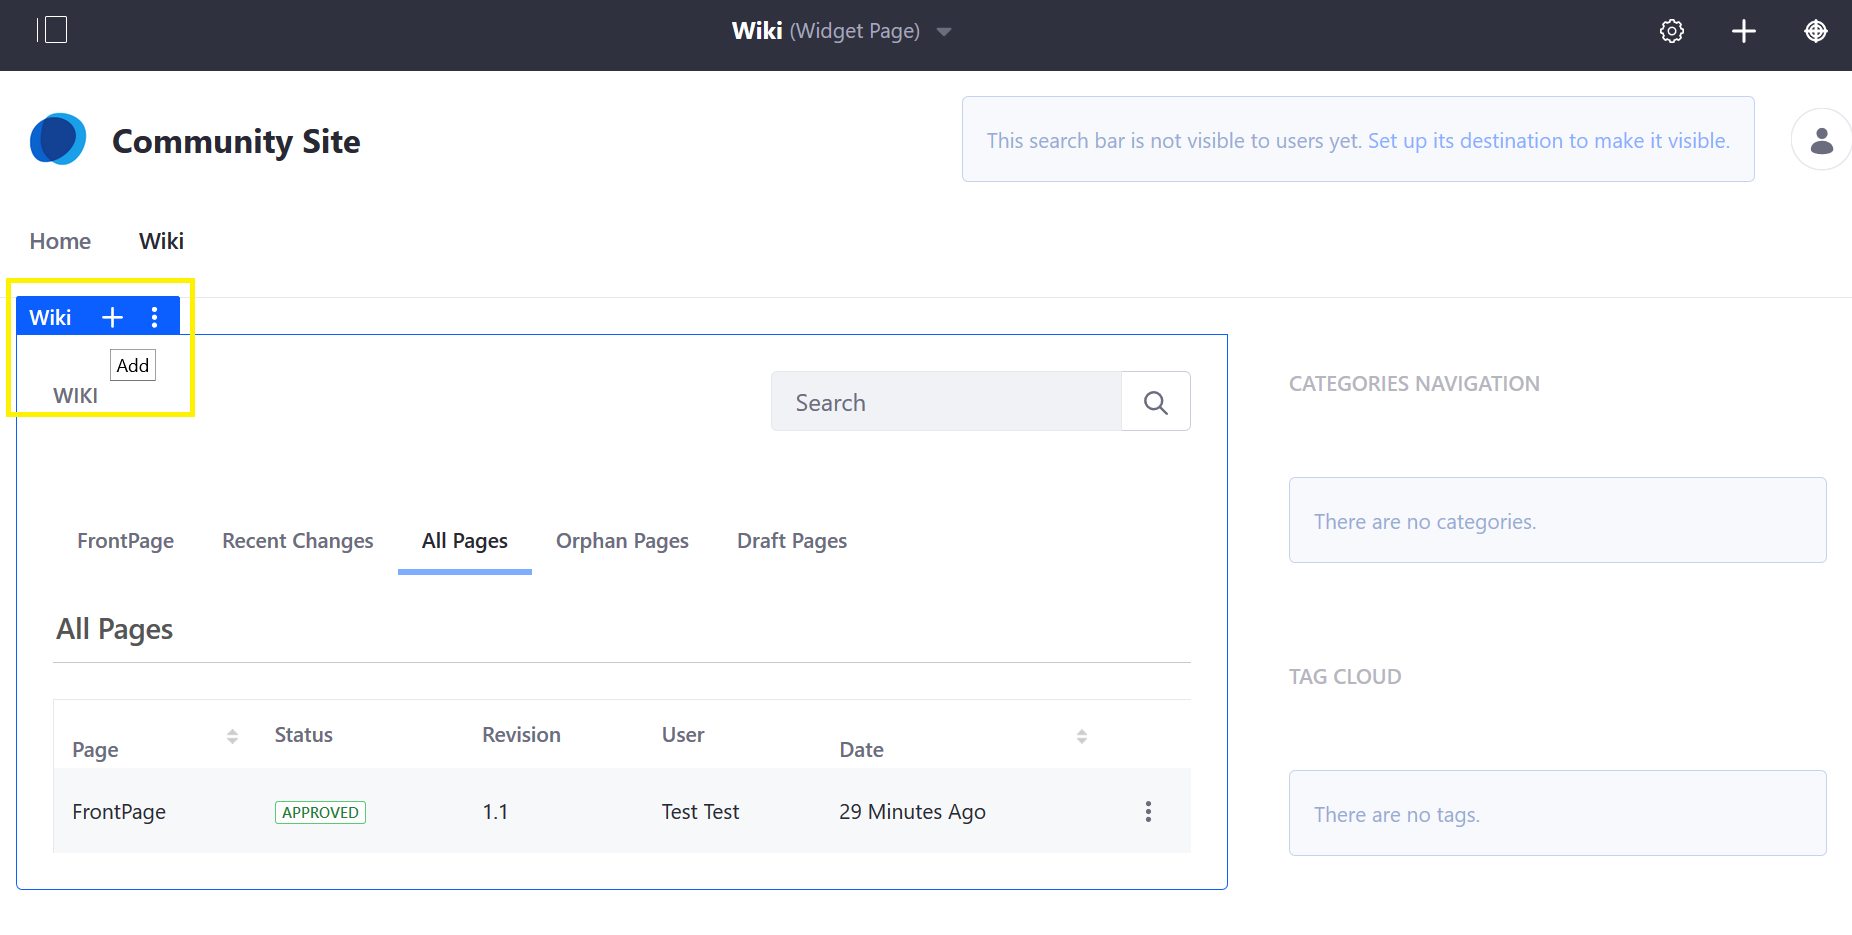
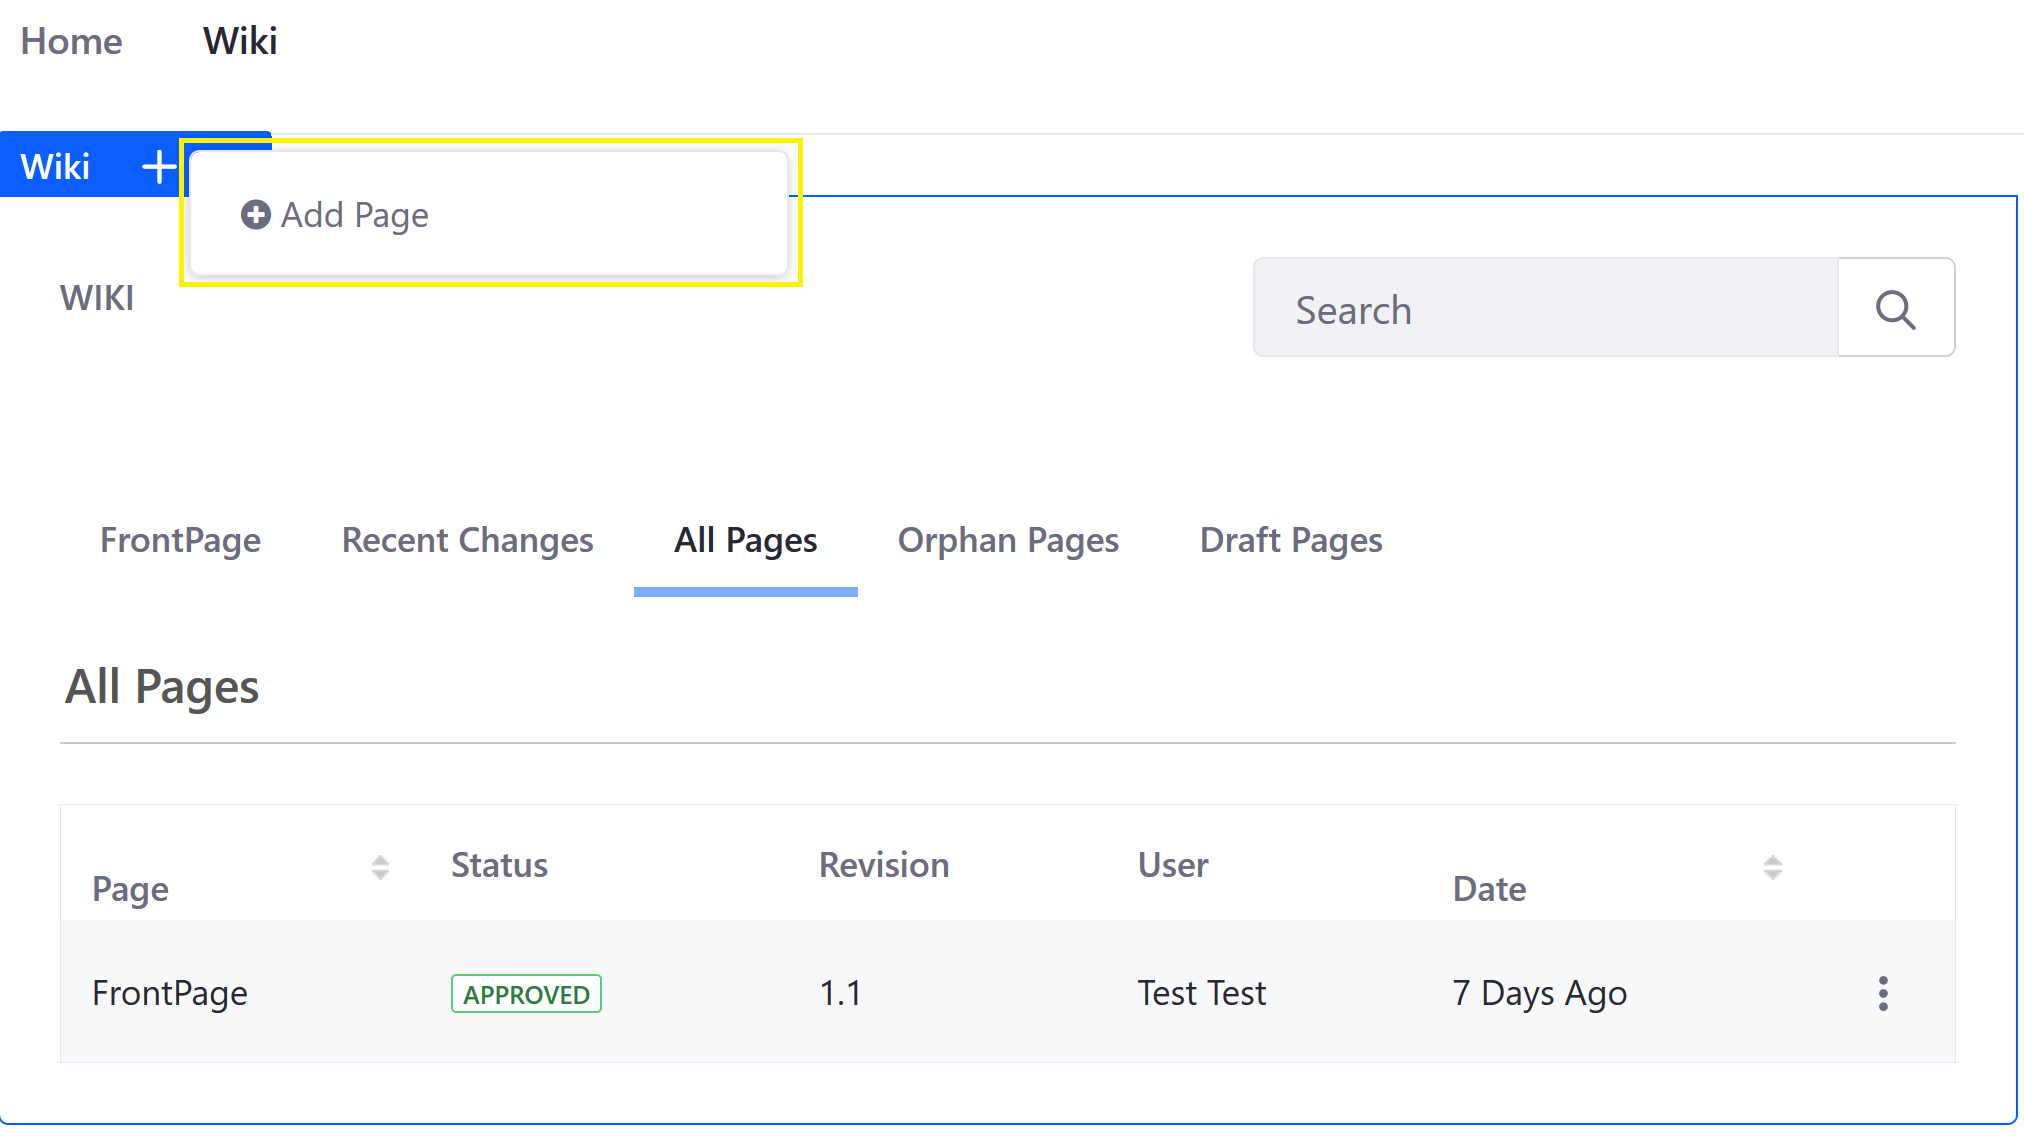
Wikis 2nd draft

diff --git a/docs/dxp/7.x/en/collaboration-and-social/wiki/user-guide/creating-wiki-pages.md b/docs/dxp/7.x/en/collaboration-and-social/wiki/user-guide/creating-wiki-pages.md
@@ -8,12 +8,12 @@ By default, only authenticated users have the ability to create _Wiki_ articles;
 
 1. Navigate to the site page where the _Wiki_ widget is deployed.
 
-    ![Figure 1. The Wiki Widget with no content](./creating-wiki-pages/images/01.png)
+    ![The Wiki Widget with no content](./creating-wiki-pages/images/01.png)
 
 1. To modify the _FrontPage_, click the _This page is empty. Edit it to add some text._ link in the box.
 1. Tne default text editor uses Creole. To switch the format, expand the _Configuration_ section.
 
-    ![Figure 2. Changing the Text Format](./creating-wiki-pages/images/02.png)
+    ![Changing the Text Format](./creating-wiki-pages/images/02.png)
 
 1. Select a new format (HTML) then click _OK_ to accept the change.
 1. Enter the article's content.
@@ -25,9 +25,9 @@ Users can attach files to wiki pages.
 1. To add attachments, expand the _Attachments_ section.
 1. Drag and drop a file to upload or use the _Select Files_ button to navigate to the file's location.
 
-    ![Figure 3. Uploading an attachment](./creating-wiki-pages/images/03.png)
+    ![Uploading an attachment](./creating-wiki-pages/images/03.png)
 
-### Using _Tags_ and _Related Assets_ to Organize Wiki Pages
+### Using Tags and Related Assets to Organize Wiki Pages
 
 Users can add a tag to a page. If searching for content using this tag (for example, _Toyota_), all posts with the _Toyota_ will be returned faster.
 
@@ -36,31 +36,36 @@ Users can add a tag to a page. If searching for content using this tag (for exam
 
 1. Click _Publish_ when finished.
 
-![Figure 4.](./creating-wiki-pages/images/05.png)
+![Publishing the FrontPage page](./creating-wiki-pages/images/05.png)
 
 The _FrontPage_ article has been created.
 
 ## Creating Child Pages
 
-Once the _FrontPage_ Page has been created, users can create a _Child Page_. This creates a simple parent-child hierarchy of wiki pages. A _Wiki Child Page_ could have child articles of its own even as it also belongs to a parent page. To create a _Child Page_, click the _Add Child Page_.
+Once the _FrontPage_ Page has been created, users can create a _Child Page_. This creates a simple parent-child hierarchy of wiki pages. A _Wiki Child Page_ could have child articles of its own even as it also belongs to a parent page. To create a _Child Page_, click _Add Child Page_.
 
-![Figure 5. Add a child page](./creating-wiki-pages/images/06.png)
+![Add a child page](./creating-wiki-pages/images/06.png)
 
 It opens the same _Wiki_ page form editor.
 
-![Figure 6. The Wiki Page editor is the same for all pages at all levels.](./creating-wiki-pages/images/07.png)
+![The Wiki Page editor is the same for all pages at all levels.](./creating-wiki-pages/images/07.png)
 
 ## Creating Other Top Level Pages
 
-Liferay DXP creates a _Main_ wiki node by default which contains the _Frontpage_ wiki page. As noted above in the _Creating Child Pages_, future wiki pages are created as child pages for organizational purposes. To create another top-level page:
+As noted above in the _Creating Child Pages_, future wiki pages are created as child pages for organizational purposes. To create another top-level page:
 
 1. Click the _All Pages_ tab.
 1. Mouse over the _Wiki_ widget's menu and click _Add Page_.
 
-   ![Figure 7. Add another wiki top level page](./creating-wiki-pages/images/04.png)
+   ![Add another wiki top level page](./creating-wiki-pages/images/04.png)
 
 This opens the same _Wiki_ page form.
+
+A _Wiki_ widget can have multiple top-level pages; while the main _Wiki_ widget displays only the _FrontPage_ wiki page, site content creators can use the [Wiki Display Widget](./using-the-wiki-display-widget.md) to display the other top-level pages.
+
+![Using the Wiki Display Widget to display other top-level pages](./creating-wiki-pages/images/08.png)
 
 ## What's Next
 
 * [Creating a Node](./creating-a-node.md)
+* [Using the Wiki Display Widget](./using-the-wiki-display-widget.md)

diff --git a/docs/dxp/7.x/en/collaboration-and-social/wiki/user-guide/getting-started-with-wikis.md b/docs/dxp/7.x/en/collaboration-and-social/wiki/user-guide/getting-started-with-wikis.md
@@ -1,10 +1,10 @@
 # Getting Started with Wikis
 
-Liferay DXP's _Wiki_ is a knowledge base website app which can be deployed to any DXP site page. Here, users collaborate on creating and modifying wiki pages directly from a web browser.
+Liferay DXP comes with a _Wiki_ application that contains a rich-text WYSIWYG editor, version tracking, and the ability to create multiple wiki nodes - all things that you expect from wikis. Wikis are integrated with Liferay DXP's users and permissions.
 
 ## Adding a Wiki Widget to a Site
 
-The most fastest way to begin using the _Wiki_ widget is deploying it on a [Site Page](https://help.liferay.com/hc/articles/360029132211-Creating-Pages).
+The fastest way to begin using the _Wiki_ widget is deploying it on a [Site Page](../../../site-building/creating-pages/understanding-pages.md).
 
 1. Navigate to the site page where the wiki will be created (for example, the DXP _Guest_ site's _Wiki page_).
 
@@ -17,20 +17,9 @@ The most fastest way to begin using the _Wiki_ widget is deploying it on a [Site
 
 1. Drag and drop the _Wiki_ widget to the desired location on the page.
 
-![The widget is now on the site page.](./getting-started-with-wikis/images/04.png)
+    ![The widget is now on the site page.](./getting-started-with-wikis/images/04.png)
 
 Site members are now able to create and edit wiki pages. Note that there can be only one _Wiki_ widget per page.
-
-## Using an Existing Site Built with the Community Site Template
-
-If you had created a Site using the out-of-the-box _Community Site_ template from the [Creating Your First Site](../../../getting-started/creating-your-first-site.md) article, there is already a page with the _Wiki_ widget deployed.
-
-1. Using the site selector, navigate to the _Community Site_.
-1. Click the _Wiki_ page.
-
-    ![Using the Community Site's Wiki page already has the Wiki widget deployed.](./getting-started-with-wikis/images/01.png)
-
-The advantages of having using the site template are speedy page creation and having two related widgets: the _Tag Cloud_ and the _Categories Navigation_. These two widgets are populated with tags and categories so that users can find related wiki articles with the same tag or category.
 
 ## What's Next
 
@@ -41,7 +30,7 @@ Learn about the features in the _Wiki_ widget:
 * [Scoping Your Wikis](./scoping-your-wikis.md)
 * [Exporting and Importing a Wiki](./exporting-and-importing-a-wiki.md)
 
-### Using Wiki-Related Widgets
+## Complementary Wiki Widgets
 
 Liferay DXP offers three additional widgets to be used in conjunction with the _Wiki_ widget which makes it easier to navigate to and view the other wiki pages on the same DXP instance. This is because the _Wiki_ widget displays only the _FrontPage_.
 
@@ -49,7 +38,8 @@ Liferay DXP offers three additional widgets to be used in conjunction with the _
 * [Tree Menu](./using-the-tree-menu-widget.md)
 * [Wiki Display](./using-the-wiki-display-widget.md)
 
-## Reference
+## Additional Information
 
-* [Wiki Permissions](./wiki-permissions.md)
-* [Wiki Widget UI Reference](./wiki-widget-ui-reference.md)
+If you had created a Site using the out-of-the-box _Community Site_ template from the [Creating Your First Site](../../../getting-started/creating-your-first-site.md) article, there is already a page with the _Wiki_ widget deployed.
+
+![Using the Community Site's Wiki page already has the Wiki widget deployed.](./getting-started-with-wikis/images/01.png)

diff --git a/docs/dxp/7.x/en/collaboration-and-social/wiki/user-guide/scoping-your-wikis.md b/docs/dxp/7.x/en/collaboration-and-social/wiki/user-guide/scoping-your-wikis.md
@@ -4,12 +4,15 @@ Besides using [Wiki Nodes](./creating-a-node.md) to organize your content, you c
 
 ## Global
 
-Content created at the global site scope level is available on all other sites. However, content will not be automatically published. Administrators must configure the _Wiki_ widget's scope to _Global_.
+Wiki pages created at the global site scope level are available on all other sites. However, content will not be automatically published. Administrators must configure the _Wiki_ widget's scope to _Global_.
 
 ### Creating Globally Scoped Wiki Pages
 
 1. Navigate to the site page where the _Wiki_ widget is deployed.
-1. Click _Options_ ![Icon Options](../../../images/icon-widget-options.png) then _Configuration_.
+1. Mouse over the _Wiki_ widget's name and click _Options_ ![Icon Options](../../../images/icon-widget-options.png) then _Configuration_.
+
+    ![Wiki Options](./scoping-your-wikis/images/10.png)
+
 1. Click _Scope_.
 1. Select **Global** from the _Scope_ dropdown menu.
 
@@ -62,7 +65,7 @@ The second page has been configured for page scope.
 
 ### Managing Page Scoped Wikis
 
-Note that administrators must still use the _Site Administration_ menu to administer a page scoped Wiki widget by setting the _Site Administration menu_'s active scope. Follow these steps to do this:
+Note that administrators must still use the _Site Administration_ menu to administer a page scoped Wiki widget by setting the _Site Administration menu_'s active scope. Follow these steps:
 
 1. Open the _Product Menu_ (![Product Menu](../../../images/icon-product-menu.png)), expand the menu for your Site, and then click _Content & Data_.
 1. The current scope appears just below the Content & Data heading. Default Scope is the current Site. To change this, click the gear icon (![Gear](../../../images/icon-control-menu-gear.png)) and then select your desired scope. This changes the Site Administration menu to reflect scope you selected. To work in a page's scope, for example, select that page from the gear icon. That page's name then becomes the Site Administration menu's title.

diff --git a/docs/dxp/7.x/en/collaboration-and-social/wiki/user-guide/creating-a-node.md b/docs/dxp/7.x/en/collaboration-and-social/wiki/user-guide/creating-a-node.md
@@ -1,6 +1,8 @@
 # Creating a Node
 
-Wiki nodes organize wiki pages and create a structure. Only authenticated users with the [requisite permissions](./wiki-permissions.md) (at minimum, _Add Node_ and _Permissions_) can create a node. To learn more about DXP Roles and Permissions in general, see [Roles and Permissions](https://help.liferay.com/hc/articles/360017895212-Roles-and-Permissions).
+DXP's wiki nodes allows site content creators to organize wiki pages on the same site. Use cases include (but not limited to): creating a wiki node for a unique subject matter; or each node containing the localized versions of a particular wiki page.
+
+Only authenticated users with the [requisite permissions](./wiki-permissions.md) (at minimum, _Add Node_ and _Permissions_) can create a node. To learn more about DXP Roles and Permissions in general, see [Roles and Permissions](https://help.liferay.com/hc/articles/360017895212-Roles-and-Permissions).
 
 ## Creating a New Node
 
@@ -13,7 +15,7 @@ Wiki nodes organize wiki pages and create a structure. Only authenticated users 
     * **Description**: This is a new node for DXP Guest wiki site.
 1. Click _Save_.
 
-A new Node has been created.
+A new Node has been created. You can create multiple nodes on the same site.
 
 ![Creating a new Node](./creating-a-node/images/01.png)
 

diff --git a/docs/dxp/7.x/en/collaboration-and-social/wiki/user-guide/README.rst b/docs/dxp/7.x/en/collaboration-and-social/wiki/user-guide/README.rst
@@ -4,10 +4,10 @@ User Guide
 -  :doc:`/collaboration-and-social/wiki/user-guide/getting-started-with-wikis`
 -  :doc:`/collaboration-and-social/wiki/user-guide/creating-wiki-pages`
 -  :doc:`/collaboration-and-social/wiki/user-guide/creating-a-node`
--  :doc:`/collaboration-and-social/wiki/user-guide/scoping-your-wikis`
 -  :doc:`/collaboration-and-social/wiki/user-guide/exporting-and-importing-a-wiki`
 -  :doc:`/collaboration-and-social/wiki/user-guide/using-the-page-menu-widget`
 -  :doc:`/collaboration-and-social/wiki/user-guide/using-the-tree-menu-widget`
 -  :doc:`/collaboration-and-social/wiki/user-guide/using-the-wiki-display-widget`
+-  :doc:`/collaboration-and-social/wiki/user-guide/scoping-your-wikis`
 -  :doc:`/collaboration-and-social/wiki/user-guide/wiki-permissions`
 -  :doc:`/collaboration-and-social/wiki/user-guide/wiki-widget-ui-reference`

diff --git a/docs/dxp/7.x/en/collaboration-and-social/wiki/user-guide/wiki-permissions.md b/docs/dxp/7.x/en/collaboration-and-social/wiki/user-guide/wiki-permissions.md
@@ -1,11 +1,11 @@
-# Wiki Permissions
+# Wiki Permissions Reference
 
 This article documents permissions in the _Wiki_ widget and serves as a reference when assigning permissions to users and roles. To learn more about DXP Roles and Permissions in general, see [Roles and Permissions](https://help.liferay.com/hc/articles/360017895212-Roles-and-Permissions).
 
 ## Wiki Node Permissions
 
 1. Navigate to _Site Administration_ &rarr; _Content & Data_ &rarr; _Wiki_.
-1. Click _Options_ (![Options](../../../images/icon-options.png)) then _Permissions.
+1. Click _Options_ (![Options](../../../images/icon-options.png)) next to the node (for example, _New Node_) then _Permissions_.
 
     ![Viewing Wiki Node Permissions](./wiki-permissions/images/06.png)
 

diff --git a/docs/dxp/7.x/en/collaboration-and-social/wiki/README.rst b/docs/dxp/7.x/en/collaboration-and-social/wiki/README.rst
@@ -1,6 +1,9 @@
 Wiki
 ====
 
+User Guide
+----------
+
 -  :doc:`/collaboration-and-social/wiki/user-guide/getting-started-with-wikis`
 -  :doc:`/collaboration-and-social/wiki/user-guide/creating-wiki-pages`
 -  :doc:`/collaboration-and-social/wiki/user-guide/creating-a-node`
@@ -11,10 +14,6 @@ Wiki
 -  :doc:`/collaboration-and-social/wiki/user-guide/using-the-wiki-display-widget`
 -  :doc:`/collaboration-and-social/wiki/user-guide/wiki-permissions`
 -  :doc:`/collaboration-and-social/wiki/user-guide/wiki-widget-ui-reference`
-
-User Guide
-----------
-Coming soon!
 
 Developer Guide
 ---------------

diff --git a/docs/dxp/7.x/en/collaboration-and-social/wiki/user-guide/wiki-widget-ui-reference.md b/docs/dxp/7.x/en/collaboration-and-social/wiki/user-guide/wiki-widget-ui-reference.md
@@ -60,12 +60,12 @@ The _All Pages_ tab lists all the pages created in the selected wiki node.
 
 ## Orphan Pages
 
-Orphan Pages are pages existing on a website without any other page linking to them.
+Orphan Pages are wiki pages existing on a DXP site without any other pages linking to them.
 
 ![Orphan Pages](./wiki-widget-ui-reference/images/04.png)
 
 ## Draft Pages
 
-The _Draft Pages_ tab lists all _Wiki pages_ saves as a draft.
+The _Draft Pages_ tab lists all _Wiki pages_ that have been saved as a draft.
 
 ![Draft Pages](./wiki-widget-ui-reference/images/05.png)

diff --git a/docs/dxp/7.x/en/collaboration-and-social/wiki/user-guide/using-the-tree-menu-widget.md b/docs/dxp/7.x/en/collaboration-and-social/wiki/user-guide/using-the-tree-menu-widget.md
@@ -27,5 +27,5 @@ Once the _Tree Menu_ widget has been added to a page, it lists all the pages and
 
 ## Additional Information
 
-* [Page Menu widget](./using-the-page-menu-widget.md)
-* [Wiki Display widget](./using-the-wiki-display-widget.md)
+* [Page Menu Widget](./using-the-page-menu-widget.md)
+* [Wiki Display Widget](./using-the-wiki-display-widget.md)

diff --git a/docs/dxp/7.x/en/collaboration-and-social/wiki/user-guide/using-the-wiki-display-widget.md b/docs/dxp/7.x/en/collaboration-and-social/wiki/user-guide/using-the-wiki-display-widget.md
@@ -26,5 +26,5 @@ The _Wiki Display_ widget now displays the selected _Wiki Page_.
 
 ## Additional Information
 
-* [Page Menu widget](./using-the-page-menu-widget.md)
-* [Tree Menu widget](./using-the-tree-menu-widget.md)
+* [Page Menu Widget](./using-the-page-menu-widget.md)
+* [Tree Menu Widget](./using-the-tree-menu-widget.md)
